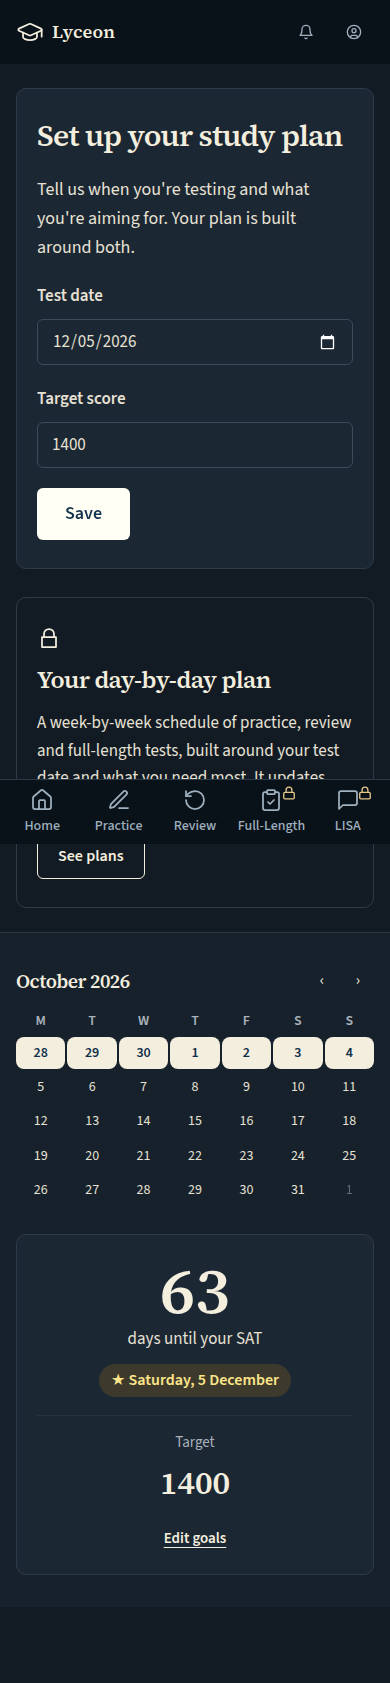
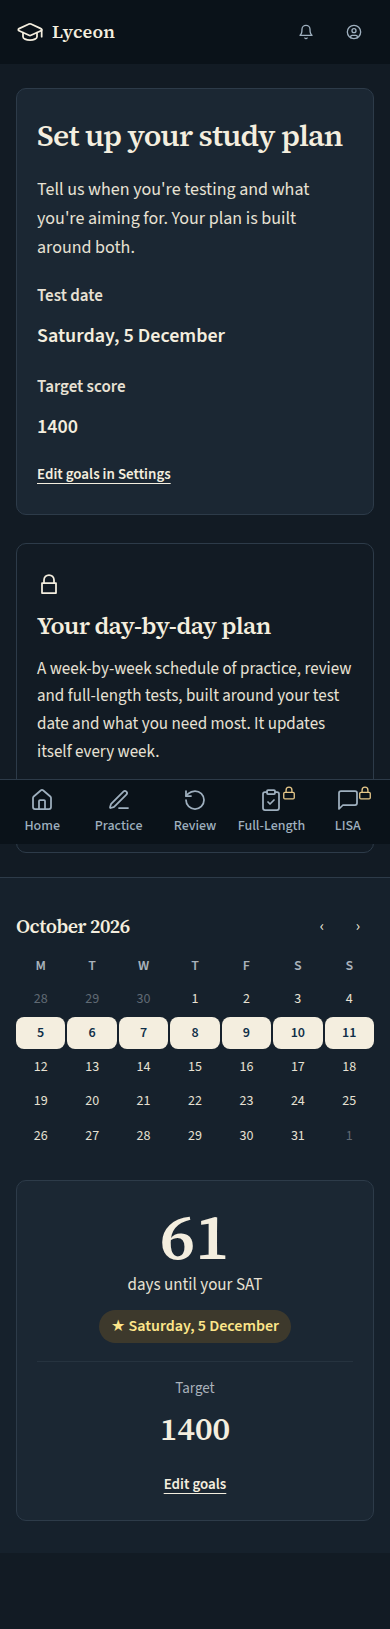
docs(student-ui): UI-55 / OQ-56 screenshots re-captured; free save is a first save in every capture
The 28 UI-55 captures re-taken after SCL-211 (light and dark, 1440 and 390, 0px
horizontal overflow): no streak line under the range, no facts strip under the grid,
and the free card read-only after the save with "Edit goals in Settings". The
free-save click path now deletes the free student's study profile before each capture
(new shot field `freshCalendarProfile`), because the form no longer exists once a
profile does. notes.md records the ruling. Prettier on four files this branch touched.

Claude-Session: https://claude.ai/code/session_01DzryTvDS5m7fLVPUjsQYgR

diff --git a/tests/e2e/student-harness/groups/ui-55.ts b/tests/e2e/student-harness/groups/ui-55.ts
@@ -6,15 +6,18 @@
  *        prototype ... and the page's main click path exercised"); DESIGN.md §2 (Calendar's
  *        right panel is 340px, no slim footer), §4 Calendar; design/prototype/Calendar.dc.html
  *        (plan paid and free, its Week/Month toggle and its Regenerate plan); OQ-4 (390px,
- *        light and dark); OQ-25 (free reads the ungated profile)] | @implemented [2026-10-03]
+ *        light and dark); OQ-25 (free reads the ungated profile); SCL-211 / OQ-56 (no streak
+ *        line, no facts strip; the free form read-only after the first save)]
+ *        | @implemented [2026-10-03; SCL-211 2026-10-05]
  *
  * plain English: the group asks for the "calendar-goal" seed (seed.ts): through the real
  * `PUT /api/calendar/profile` the paid student's SAT date is this week's Sunday, so the week,
  * the month and the mini month each show the starred test day. The paid plan is the one the
  * real generator builds on first open. The free student has no entitlement row and no profile:
  * the first free shot is the setup state; the click shot types a test date and a target into
- * the inline form and saves it through the real route; the shot after it reloads the page with
- * that profile saved. Shot order matters and is kept: setup, save, saved.
+ * the inline form and saves it through the real route, after which the card turns read-only
+ * (OQ-56 (b)); the shot after it reloads the page with that profile saved. Shot order matters
+ * and is kept: setup, save, saved.
  */
 import type { PageGroup } from "./types";
 
@@ -46,7 +49,7 @@ export const UI_55: PageGroup = {
     {
       id: "paid-week",
       title:
-        "Calendar, paid, week: Week/Month, Today, arrows; the range centred (M/D – M/D); Edit schedule and Regenerate plan; the starred test day; panel: mini month (★), goal card (days until, ★ pill, Target | Projected), Your schedule, Show",
+        "Calendar, paid, week: Week/Month, Today, arrows; the range centred (M/D – M/D), no streak line; Edit schedule and Regenerate plan; the starred test day; no facts strip (SCL-211); panel: mini month (★), goal card (days until, ★ pill, Target | Projected), Your schedule, Show",
       persona: "paid",
       route: "/calendar",
       waitFor: PAID_WEEK,
@@ -132,10 +135,11 @@ export const UI_55: PageGroup = {
     {
       id: "free-save",
       title:
-        "Click path (free): type a test date and a target, Save (PUT /api/calendar/profile through the real route); the goal card then counts down to the saved date",
+        "Click path (free): type a test date and a target, Save (PUT /api/calendar/profile through the real route); the card then shows them read-only with Edit goals in Settings (OQ-56 (b)), and the goal card counts down to the saved date",
       persona: "free",
       route: "/calendar",
       waitFor: FREE_SETUP,
+      freshCalendarProfile: true,
       steps: [
         {
           fill: {
@@ -158,7 +162,7 @@ export const UI_55: PageGroup = {
           },
         },
       ],
-      expectText: "until your SAT",
+      expectText: "Edit goals in Settings",
       fullPage: true,
       prototype: {
         kind: "none",
@@ -169,7 +173,7 @@ export const UI_55: PageGroup = {
     {
       id: "free-saved",
       title:
-        "Calendar, free, with the profile saved: the form shows the saved answers (read from GET /api/calendar/profile, no plan read); panel: the ★ test date and Target",
+        "Calendar, free, with the profile saved: the card shows the saved answers read-only with Edit goals in Settings (read from GET /api/calendar/profile, no plan read; OQ-56 (b)); panel: the ★ test date and Target",
       persona: "free",
       route: "/calendar",
       waitFor: {

diff --git a/tests/e2e/student-harness/capture.ts b/tests/e2e/student-harness/capture.ts
@@ -54,6 +54,7 @@ import type {
 import {
   isStudentPersona,
   PERSONA_HEADER,
+  PERSONAS,
   type StudentPersona,
 } from "./personas";
 import { SEED_CLIENT_INSTANCE, type SeedManifest } from "./seed";
@@ -397,6 +398,22 @@ async function harnessDb(): Promise<pg.Client> {
   return client;
 }
 
+/**
+ * SCL-211 / OQ-56 (b) (groups/types.ts `freshCalendarProfile`): removes the persona's study
+ * profile, so the next page load is a first visit again. Nothing references the row.
+ */
+async function clearCalendarProfile(persona: StudentPersona): Promise<void> {
+  const db = await harnessDb();
+  try {
+    await db.query(
+      "DELETE FROM public.student_study_profile WHERE student_id = $1",
+      [PERSONAS[persona].id],
+    );
+  } finally {
+    await db.end();
+  }
+}
+
 async function apiCall(
   stack: Stack,
   persona: StudentPersona,
@@ -535,6 +552,13 @@ async function shootBuilt(
     throw new Error(`${shot.id}: a fresh session needs a signed-in persona`);
   const sessionId =
     fresh && persona ? await startFreshSession(stack, persona, fresh) : null;
+  if (shot.freshCalendarProfile === true) {
+    if (persona === null)
+      throw new Error(
+        `${shot.id}: a fresh calendar profile needs a seeded student`,
+      );
+    await clearCalendarProfile(persona);
+  }
   const context = await browser.newContext({
     viewport: VIEWPORTS[viewport],
     colorScheme: theme,
@@ -834,6 +858,10 @@ function writeIndex(
     if (shot.freshSession)
       lines.push(
         `Fresh session per capture (real create route, ended after the shot): \`${shot.freshSession.engine} ${JSON.stringify(shot.freshSession.body)}\`.`,
+      );
+    if (shot.freshCalendarProfile === true)
+      lines.push(
+        "No study profile before each capture (the persona's `student_study_profile` row is deleted from the harness database), so the save is a first save in every viewport and theme.",
       );
     for (const step of shot.steps ?? [])
       lines.push(

diff --git a/tests/e2e/student-harness/groups/types.ts b/tests/e2e/student-harness/groups/types.ts
@@ -81,6 +81,13 @@ export type Shot = {
   steps?: readonly Step[];
   /** UI-53: a fresh runner session per capture (see FreshSession). */
   freshSession?: FreshSession;
+  /**
+   * SCL-211 / OQ-56 (b): the persona's study profile is deleted from the harness database
+   * before every capture, so a first-save click path starts from "no profile" in each viewport
+   * and theme (the free form is read-only once a profile exists, so a second pass would find no
+   * form). Listed in the index next to the shot.
+   */
+  freshCalendarProfile?: true;
   /** UI-53: text the page must show after `steps` (e.g. "Question 2 of 10"); the capture fails otherwise. */
   expectText?: string;
   /** UI-56: a selector the page must show after `steps` (the capture fails otherwise). */

diff --git a/tests/e2e/student-calendar.spec.ts b/tests/e2e/student-calendar.spec.ts
@@ -108,7 +108,9 @@ for (const vp of [
     expect(await page.locator(".lyceon-calendar.lyc-cal").count()).toBe(2);
     expect(await page.locator(".lyceon-calendar .rail").count()).toBe(0);
     // SCL-211: no facts strip and no streak line on the student calendar.
-    expect(await page.locator('[data-testid="calendar-facts"]').count()).toBe(0);
+    expect(await page.locator('[data-testid="calendar-facts"]').count()).toBe(
+      0,
+    );
     expect(await page.locator('[data-item="streak"]').count()).toBe(0);
     // R11: the shared calendar centres on a student's phone exactly as on a guardian's
     // (owner decision 2026-10-01, item 10). Desktop is the byte comparison above.

diff --git a/client/src/features/calendar/api/queries.ts b/client/src/features/calendar/api/queries.ts
@@ -152,7 +152,6 @@ export function usePrefetchAdjacentRange(
   }, [client, view, cursor, timezone, enabled]);
 }
 
-
 /**
  * GET /api/calendar/profile — the free calendar's read (OQ-25, UI-55). A free student's
  * `GET /api/calendar` answers 402 once a profile exists, so this is the only way the page can

diff --git a/client/src/features/calendar/api/keys.ts b/client/src/features/calendar/api/keys.ts
@@ -44,7 +44,6 @@ export const calendarKeys = {
    */
   profile: () => ["calendar", "profile"] as const,
 
-
   /** The prefix every guardian range read shares. */
   guardianRanges: () => ["calendar", "guardian"] as const,
 

diff --git a/docs/plans/student-ui/evidence/wave5/UI-55/index.md b/docs/plans/student-ui/evidence/wave5/UI-55/index.md
@@ -1,6 +1,6 @@
 # UI-55 Calendar (/calendar): paid week and month, Regenerate plan, free setup before and after a save; light and dark, 1440 and 390
 
-Generated 2026-10-03T17:34:31.710Z by `pnpm exec tsx tests/e2e/student-harness/capture.ts UI-55` (see `tests/e2e/student-harness/README.md`). Built = a production build of the real client (`vite preview`, or the dev server with STUDENT_HARNESS_CLIENT=dev) against the student harness (real routers over a local Postgres built from this repo's migrations; personas seeded through the real practice routes). Prototype = the signed-off `docs/plans/student-ui/design/prototype/*.dc.html`, rendered locally.
+Generated 2026-10-05T06:55:32.881Z by `pnpm exec tsx tests/e2e/student-harness/capture.ts UI-55` (see `tests/e2e/student-harness/README.md`). Built = a production build of the real client (`vite preview`, or the dev server with STUDENT_HARNESS_CLIENT=dev) against the student harness (real routers over a local Postgres built from this repo's migrations; personas seeded through the real practice routes). Prototype = the signed-off `docs/plans/student-ui/design/prototype/*.dc.html`, rendered locally.
 
 Conditions, read before comparing:
 - Viewport screenshots (not full page) unless the shot says full page: desktop 1440x900, phone 390x844.
@@ -9,17 +9,17 @@ Conditions, read before comparing:
 - No external requests: the built app's Google Fonts (Inter, Poppins) are blocked, so legacy page bodies fall back to system faces; Source Sans 3 / Source Serif 4 are self-hosted and load for both sides.
 - Prototype data is illustrative; built data is the seeded personas' real payloads.
 
-## Calendar, paid, week: Week/Month, Today, arrows; the range centred (M/D – M/D); Edit schedule and Regenerate plan; the starred test day; panel: mini month (★), goal card (days until, ★ pill, Target | Projected), Your schedule, Show
+## Calendar, paid, week: Week/Month, Today, arrows; the range centred (M/D – M/D), no streak line; Edit schedule and Regenerate plan; the starred test day; no facts strip (SCL-211); panel: mini month (★), goal card (days until, ★ pill, Target | Projected), Your schedule, Show
 
 Persona: `paid`. Route: `/calendar`.
 Prototype: `Calendar.dc.html` (Calendar, plan = paid, week).
 
 | Viewport | Theme (as rendered) | Built | Prototype |
 |---|---|---|---|
-| desktop | light | ![paid-week desktop light](paid-week--desktop--light--built.png)<br>`/calendar`, 141 KB, horizontal overflow 0px | ![prototype light](proto--Calendar--paid--light.png), 175 KB |
-| desktop | dark | ![paid-week desktop dark](paid-week--desktop--dark--built.png)<br>`/calendar`, 142 KB, horizontal overflow 0px | ![prototype dark](proto--Calendar--paid--dark.png), 182 KB |
-| mobile | light | ![paid-week mobile light](paid-week--mobile--light--built.png)<br>`/calendar`, 44 KB, horizontal overflow 0px | ![prototype light](proto--Calendar--paid--light.png)<br>desktop prototype (no phone layout), 175 KB |
-| mobile | dark | ![paid-week mobile dark](paid-week--mobile--dark--built.png)<br>`/calendar`, 44 KB, horizontal overflow 0px | ![prototype dark](proto--Calendar--paid--dark.png)<br>desktop prototype (no phone layout), 182 KB |
+| desktop | light | ![paid-week desktop light](paid-week--desktop--light--built.png)<br>`/calendar`, 185 KB, horizontal overflow 0px | ![prototype light](proto--Calendar--paid--light.png), 175 KB |
+| desktop | dark | ![paid-week desktop dark](paid-week--desktop--dark--built.png)<br>`/calendar`, 188 KB, horizontal overflow 0px | ![prototype dark](proto--Calendar--paid--dark.png), 182 KB |
+| mobile | light | ![paid-week mobile light](paid-week--mobile--light--built.png)<br>`/calendar`, 45 KB, horizontal overflow 0px | ![prototype light](proto--Calendar--paid--light.png)<br>desktop prototype (no phone layout), 175 KB |
+| mobile | dark | ![paid-week mobile dark](paid-week--mobile--dark--built.png)<br>`/calendar`, 46 KB, horizontal overflow 0px | ![prototype dark](proto--Calendar--paid--dark.png)<br>desktop prototype (no phone layout), 182 KB |
 
 ## Calendar, paid, week, full page (on a phone the right panel stacks under the main column)
 
@@ -29,10 +29,10 @@ Prototype: `Calendar.dc.html` (Calendar, plan = paid (the canvas is a fixed 1440
 
 | Viewport | Theme (as rendered) | Built | Prototype |
 |---|---|---|---|
-| desktop | light | ![paid-week-full desktop light](paid-week-full--desktop--light--built.png)<br>`/calendar`, 141 KB, horizontal overflow 0px | ![prototype light](proto--Calendar--paid--light.png), 175 KB |
-| desktop | dark | ![paid-week-full desktop dark](paid-week-full--desktop--dark--built.png)<br>`/calendar`, 142 KB, horizontal overflow 0px | ![prototype dark](proto--Calendar--paid--dark.png), 182 KB |
-| mobile | light | ![paid-week-full mobile light](paid-week-full--mobile--light--built.png)<br>`/calendar`, 97 KB, horizontal overflow 0px | ![prototype light](proto--Calendar--paid--light.png)<br>desktop prototype (no phone layout), 175 KB |
-| mobile | dark | ![paid-week-full mobile dark](paid-week-full--mobile--dark--built.png)<br>`/calendar`, 98 KB, horizontal overflow 0px | ![prototype dark](proto--Calendar--paid--dark.png)<br>desktop prototype (no phone layout), 182 KB |
+| desktop | light | ![paid-week-full desktop light](paid-week-full--desktop--light--built.png)<br>`/calendar`, 185 KB, horizontal overflow 0px | ![prototype light](proto--Calendar--paid--light.png), 175 KB |
+| desktop | dark | ![paid-week-full desktop dark](paid-week-full--desktop--dark--built.png)<br>`/calendar`, 188 KB, horizontal overflow 0px | ![prototype dark](proto--Calendar--paid--dark.png), 182 KB |
+| mobile | light | ![paid-week-full mobile light](paid-week-full--mobile--light--built.png)<br>`/calendar`, 91 KB, horizontal overflow 0px | ![prototype light](proto--Calendar--paid--light.png)<br>desktop prototype (no phone layout), 175 KB |
+| mobile | dark | ![paid-week-full mobile dark](paid-week-full--mobile--dark--built.png)<br>`/calendar`, 92 KB, horizontal overflow 0px | ![prototype dark](proto--Calendar--paid--dark.png)<br>desktop prototype (no phone layout), 182 KB |
 
 ## Click path (paid): the Month toggle shows the month grid, the test day starred and labelled
 
@@ -44,8 +44,8 @@ Prototype: `Calendar.dc.html` (Calendar, plan = paid, Month clicked); clicked: `
 |---|---|---|---|
 | desktop | light | ![paid-month desktop light](paid-month--desktop--light--built.png)<br>`/calendar`, 122 KB, horizontal overflow 0px | ![prototype light](proto--Calendar--paid--light--month.png), 87 KB |
 | desktop | dark | ![paid-month desktop dark](paid-month--desktop--dark--built.png)<br>`/calendar`, 124 KB, horizontal overflow 0px | ![prototype dark](proto--Calendar--paid--dark--month.png), 88 KB |
-| mobile | light | ![paid-month mobile light](paid-month--mobile--light--built.png)<br>`/calendar`, 42 KB, horizontal overflow 0px | ![prototype light](proto--Calendar--paid--light--month.png)<br>desktop prototype (no phone layout), 87 KB |
-| mobile | dark | ![paid-month mobile dark](paid-month--mobile--dark--built.png)<br>`/calendar`, 42 KB, horizontal overflow 0px | ![prototype dark](proto--Calendar--paid--dark--month.png)<br>desktop prototype (no phone layout), 88 KB |
+| mobile | light | ![paid-month mobile light](paid-month--mobile--light--built.png)<br>`/calendar`, 45 KB, horizontal overflow 0px | ![prototype light](proto--Calendar--paid--light--month.png)<br>desktop prototype (no phone layout), 87 KB |
+| mobile | dark | ![paid-month mobile dark](paid-month--mobile--dark--built.png)<br>`/calendar`, 46 KB, horizontal overflow 0px | ![prototype dark](proto--Calendar--paid--dark--month.png)<br>desktop prototype (no phone layout), 88 KB |
 
 ## Click path (paid): Regenerate plan posts to POST /api/calendar/plan/regenerate and returns; the button then reads "Plan regenerated"
 
@@ -56,10 +56,10 @@ Prototype: `Calendar.dc.html` (Calendar, plan = paid, Regenerate plan clicked); 
 
 | Viewport | Theme (as rendered) | Built | Prototype |
 |---|---|---|---|
-| desktop | light | ![paid-regenerate desktop light](paid-regenerate--desktop--light--built.png)<br>`/calendar`, 142 KB, horizontal overflow 0px | ![prototype light](proto--Calendar--paid--light--regenerated.png), 175 KB |
-| desktop | dark | ![paid-regenerate desktop dark](paid-regenerate--desktop--dark--built.png)<br>`/calendar`, 143 KB, horizontal overflow 0px | ![prototype dark](proto--Calendar--paid--dark--regenerated.png), 181 KB |
-| mobile | light | ![paid-regenerate mobile light](paid-regenerate--mobile--light--built.png)<br>`/calendar`, 44 KB, horizontal overflow 0px | ![prototype light](proto--Calendar--paid--light--regenerated.png)<br>desktop prototype (no phone layout), 175 KB |
-| mobile | dark | ![paid-regenerate mobile dark](paid-regenerate--mobile--dark--built.png)<br>`/calendar`, 45 KB, horizontal overflow 0px | ![prototype dark](proto--Calendar--paid--dark--regenerated.png)<br>desktop prototype (no phone layout), 181 KB |
+| desktop | light | ![paid-regenerate desktop light](paid-regenerate--desktop--light--built.png)<br>`/calendar`, 186 KB, horizontal overflow 0px | ![prototype light](proto--Calendar--paid--light--regenerated.png), 175 KB |
+| desktop | dark | ![paid-regenerate desktop dark](paid-regenerate--desktop--dark--built.png)<br>`/calendar`, 188 KB, horizontal overflow 0px | ![prototype dark](proto--Calendar--paid--dark--regenerated.png), 181 KB |
+| mobile | light | ![paid-regenerate mobile light](paid-regenerate--mobile--light--built.png)<br>`/calendar`, 46 KB, horizontal overflow 0px | ![prototype light](proto--Calendar--paid--light--regenerated.png)<br>desktop prototype (no phone layout), 175 KB |
+| mobile | dark | ![paid-regenerate mobile dark](paid-regenerate--mobile--dark--built.png)<br>`/calendar`, 46 KB, horizontal overflow 0px | ![prototype dark](proto--Calendar--paid--dark--regenerated.png)<br>desktop prototype (no phone layout), 181 KB |
 
 ## Calendar, free, no profile: the inline setup form (test date, target score, Save) and the plan upsell card; panel: mini month and the Target-only goal card, all absent
 
@@ -74,24 +74,25 @@ Prototype: `Calendar.dc.html` (Calendar, plan = free).
 | mobile | light | ![free-setup mobile light](free-setup--mobile--light--built.png)<br>`/calendar`, 72 KB, horizontal overflow 0px | ![prototype light](proto--Calendar--free--light.png)<br>desktop prototype (no phone layout), 106 KB |
 | mobile | dark | ![free-setup mobile dark](free-setup--mobile--dark--built.png)<br>`/calendar`, 75 KB, horizontal overflow 0px | ![prototype dark](proto--Calendar--free--dark.png)<br>desktop prototype (no phone layout), 109 KB |
 
-## Click path (free): type a test date and a target, Save (PUT /api/calendar/profile through the real route); the goal card then counts down to the saved date
+## Click path (free): type a test date and a target, Save (PUT /api/calendar/profile through the real route); the card then shows them read-only with Edit goals in Settings (OQ-56 (b)), and the goal card counts down to the saved date
 
 Persona: `free`. Route: `/calendar`.
+No study profile before each capture (the persona's `student_study_profile` row is deleted from the harness database), so the save is a first save in every viewport and theme.
 Step: type `2026-12-05` into `{"desktop":"[data-testid=\"calendar-free-test-date\"]","mobile":"[data-testid=\"calendar-free-test-date\"]"}`.
 Step: type `1400` into `{"desktop":"[data-testid=\"calendar-free-target\"]","mobile":"[data-testid=\"calendar-free-target\"]"}`.
 Step: click `{"desktop":"[data-testid=\"calendar-free-save\"]","mobile":"[data-testid=\"calendar-free-save\"]"}`.
-Must then show the text `days until your SAT` (the capture fails otherwise).
+Must then show the text `Edit goals in Settings` (the capture fails otherwise).
 Full page: the whole document, not just the viewport.
 Prototype: none. A click path; its proof is the saved goal the page then shows (the prototype's Save is not wired).
 
 | Viewport | Theme (as rendered) | Built | Prototype |
 |---|---|---|---|
-| desktop | light | ![free-save desktop light](free-save--desktop--light--built.png)<br>`/calendar`, 91 KB, horizontal overflow 0px | none |
-| desktop | dark | ![free-save desktop dark](free-save--desktop--dark--built.png)<br>`/calendar`, 93 KB, horizontal overflow 0px | none |
-| mobile | light | ![free-save mobile light](free-save--mobile--light--built.png)<br>`/calendar`, 80 KB, horizontal overflow 0px | none |
-| mobile | dark | ![free-save mobile dark](free-save--mobile--dark--built.png)<br>`/calendar`, 83 KB, horizontal overflow 0px | none |
+| desktop | light | ![free-save desktop light](free-save--desktop--light--built.png)<br>`/calendar`, 92 KB, horizontal overflow 0px | none |
+| desktop | dark | ![free-save desktop dark](free-save--desktop--dark--built.png)<br>`/calendar`, 95 KB, horizontal overflow 0px | none |
+| mobile | light | ![free-save mobile light](free-save--mobile--light--built.png)<br>`/calendar`, 83 KB, horizontal overflow 0px | none |
+| mobile | dark | ![free-save mobile dark](free-save--mobile--dark--built.png)<br>`/calendar`, 86 KB, horizontal overflow 0px | none |
 
-## Calendar, free, with the profile saved: the form shows the saved answers (read from GET /api/calendar/profile, no plan read); panel: the ★ test date and Target
+## Calendar, free, with the profile saved: the card shows the saved answers read-only with Edit goals in Settings (read from GET /api/calendar/profile, no plan read; OQ-56 (b)); panel: the ★ test date and Target
 
 Persona: `free`. Route: `/calendar`.
 Full page: the whole document, not just the viewport.
@@ -99,13 +100,13 @@ Prototype: `Calendar.dc.html` (Calendar, plan = free (the canvas shows its own s
 
 | Viewport | Theme (as rendered) | Built | Prototype |
 |---|---|---|---|
-| desktop | light | ![free-saved desktop light](free-saved--desktop--light--built.png)<br>`/calendar`, 91 KB, horizontal overflow 0px | ![prototype light](proto--Calendar--free--light.png), 106 KB |
-| desktop | dark | ![free-saved desktop dark](free-saved--desktop--dark--built.png)<br>`/calendar`, 93 KB, horizontal overflow 0px | ![prototype dark](proto--Calendar--free--dark.png), 109 KB |
-| mobile | light | ![free-saved mobile light](free-saved--mobile--light--built.png)<br>`/calendar`, 80 KB, horizontal overflow 0px | ![prototype light](proto--Calendar--free--light.png)<br>desktop prototype (no phone layout), 106 KB |
-| mobile | dark | ![free-saved mobile dark](free-saved--mobile--dark--built.png)<br>`/calendar`, 83 KB, horizontal overflow 0px | ![prototype dark](proto--Calendar--free--dark.png)<br>desktop prototype (no phone layout), 109 KB |
+| desktop | light | ![free-saved desktop light](free-saved--desktop--light--built.png)<br>`/calendar`, 92 KB, horizontal overflow 0px | ![prototype light](proto--Calendar--free--light.png), 106 KB |
+| desktop | dark | ![free-saved desktop dark](free-saved--desktop--dark--built.png)<br>`/calendar`, 95 KB, horizontal overflow 0px | ![prototype dark](proto--Calendar--free--dark.png), 109 KB |
+| mobile | light | ![free-saved mobile light](free-saved--mobile--light--built.png)<br>`/calendar`, 83 KB, horizontal overflow 0px | ![prototype light](proto--Calendar--free--light.png)<br>desktop prototype (no phone layout), 106 KB |
+| mobile | dark | ![free-saved mobile dark](free-saved--mobile--dark--built.png)<br>`/calendar`, 86 KB, horizontal overflow 0px | ![prototype dark](proto--Calendar--free--dark.png)<br>desktop prototype (no phone layout), 109 KB |
 
 ## Run facts
 
-- Seeded ids: `{"free":{"completedPracticeSessionId":"a0c0df4d-8655-44bd-b98e-961cba526d84","openPracticeSessionId":"e6ceefaf-9739-402c-95f8-5afaee7378c1","openReviewSessionId":null,"diagnosticSessionId":null,"scoredExamSessionId":null,"inProgressExamSessionId":null,"answered":13},"paid":{"completedPracticeSessionId":"ac00fa97-b48a-40fc-b687-05483e64336f","openPracticeSessionId":"df2d6559-87ae-44f4-9f64-f0991378d3b2","openReviewSessionId":null,"diagnosticSessionId":"5094324c-77b4-44a4-8988-523f2369a06f","scoredExamSessionId":null,"inProgressExamSessionId":null,"answered":53}}`
+- Seeded ids: `{"free":{"completedPracticeSessionId":"da61e4e7-0c78-4aa0-99d3-cd2083351d50","openPracticeSessionId":"affdfbcf-e750-4f16-a920-a02815d7893b","openReviewSessionId":null,"diagnosticSessionId":null,"scoredExamSessionId":null,"inProgressExamSessionId":null,"lisaConversationId":null,"answered":13},"paid":{"completedPracticeSessionId":"c183ce44-2b00-4c9a-8294-27e9064ae801","openPracticeSessionId":"d4a4b981-eac3-4296-bf25-2f7d00d8aeb4","openReviewSessionId":null,"diagnosticSessionId":"744c4106-42ef-4f6f-b4a8-e82186cc2364","scoredExamSessionId":null,"inProgressExamSessionId":null,"lisaConversationId":null,"answered":53}}`
 - Endpoints the pages asked for that the harness does not serve (answered 404): none
 - External hosts blocked: `fonts.googleapis.com`

diff --git a/docs/plans/student-ui/evidence/wave5/UI-55/notes.md b/docs/plans/student-ui/evidence/wave5/UI-55/notes.md
@@ -1,7 +1,9 @@
 # UI-55 Calendar — remaining differences from Calendar.dc.html
 
 Captured 2026-10-03 with `pnpm exec tsx tests/e2e/student-harness/capture.ts UI-55`
-(`STUDENT_HARNESS_DB=student_e2e_ui55 HARNESS_PORT=5076 STUDENT_HARNESS_VITE_PORT=5195`).
+(`STUDENT_HARNESS_DB=student_e2e_ui55 HARNESS_PORT=5076 STUDENT_HARNESS_VITE_PORT=5195`);
+re-captured 2026-10-05 after SCL-211 / OQ-56 (`STUDENT_HARNESS_DB=student_e2e_oq56
+HARNESS_PORT=5092 STUDENT_HARNESS_VITE_PORT=5192`).
 28 built captures, every one with 0px horizontal overflow and no theme lock (`/calendar` follows
 the device theme). See `index.md` for the shot-by-shot table.
 
@@ -9,17 +11,23 @@ Data: the paid student's plan is what the real generator builds on first open, w
 set (seed `calendar-goal`, real `PUT /api/calendar/profile`) to the Sunday of the capture week, so
 "1 days until your SAT" and mostly rest days before today are real output, not a layout choice.
 
+Ruled 2026-10-05 (OQ-56, SCL-211): the streak line under the title and the facts strip under the
+grid are gone, matching the prototype; the free card is read-only once a profile exists, with
+"Edit goals in Settings" (`free-save` ends on it; `free-saved` reloads it). `free-save` deletes the
+free student's study profile before each capture so every viewport and theme makes a first save.
+
 Differences kept, and why:
 
-1. **Streak line under the title.** The prototype header has no streak; Doc 05F §14 says the streak
-   is rendered on the calendar, so the shipped line stays (owner question).
+1. (Removed: the streak line, SCL-211.)
 2. **"Your schedule" in the right panel.** Not in the prototype; register §2 moves the calendar's
    schedule summary into the right panel (register wins over DESIGN.md).
-3. **Facts strip under the grid.** Not in the prototype; Doc 05F §17.1 item 7 / §14.
+3. (Removed: the facts strip, SCL-211.)
 4. **No "Training for".** OQ-37 holds the dream school until UI-S8 closes.
 5. **Free page has no Week/Month header.** The prototype draws the plan controls over the free
    setup form; a free student has no plan to step through or regenerate (both would 402), so the
-   free page starts with the form, whose heading is the page H1 (owner question).
+   free page starts with the form, whose heading is the page H1 (OQ-56 (a), not ruled; kept). After
+   the first save the card keeps its heading and sentence ("Set up your study plan") above the
+   read-only answers: existing copy, not new.
 6. **Block cards keep the shipped copy** ("Math · 5 questions", "~8 min", "Adv Math 5"), not the
    prototype's sample wording; done blocks keep the shipped strike-through.
 7. **Rest days are hatched** in week and month (shipped §14 rule); the prototype has no rest days.
